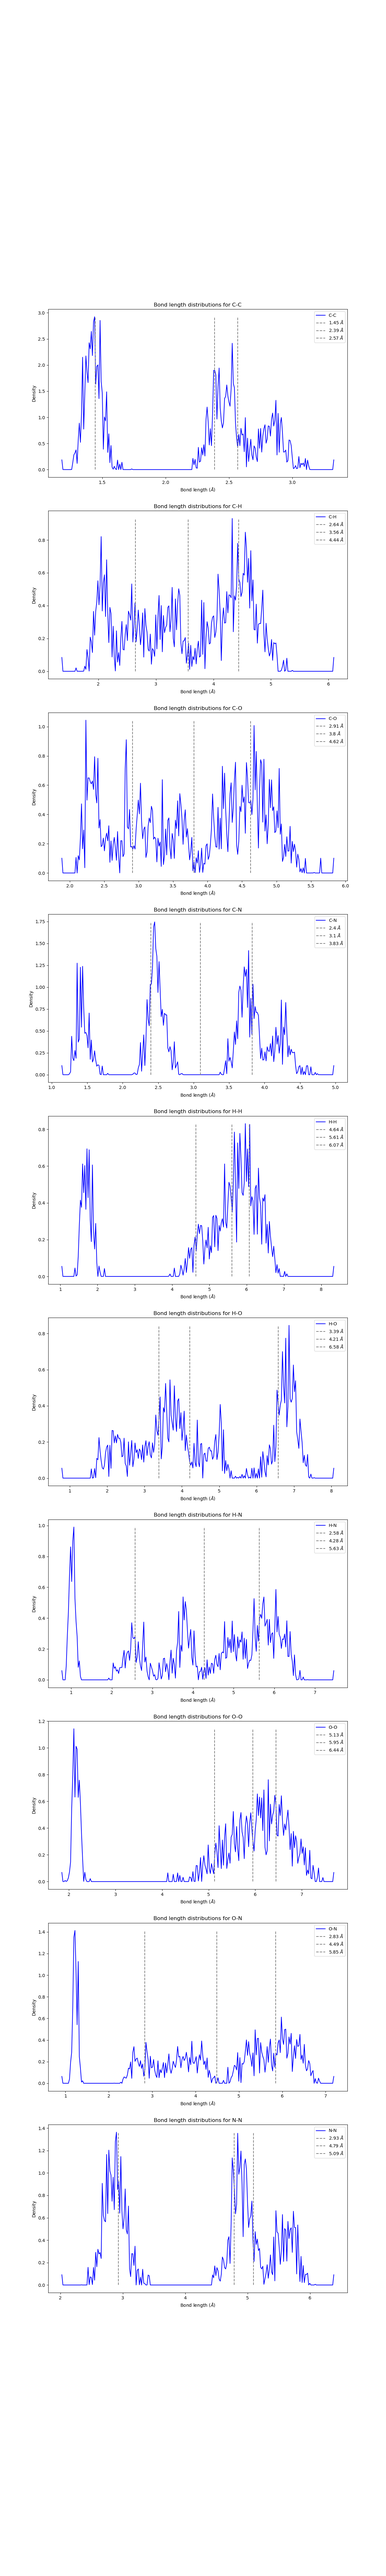
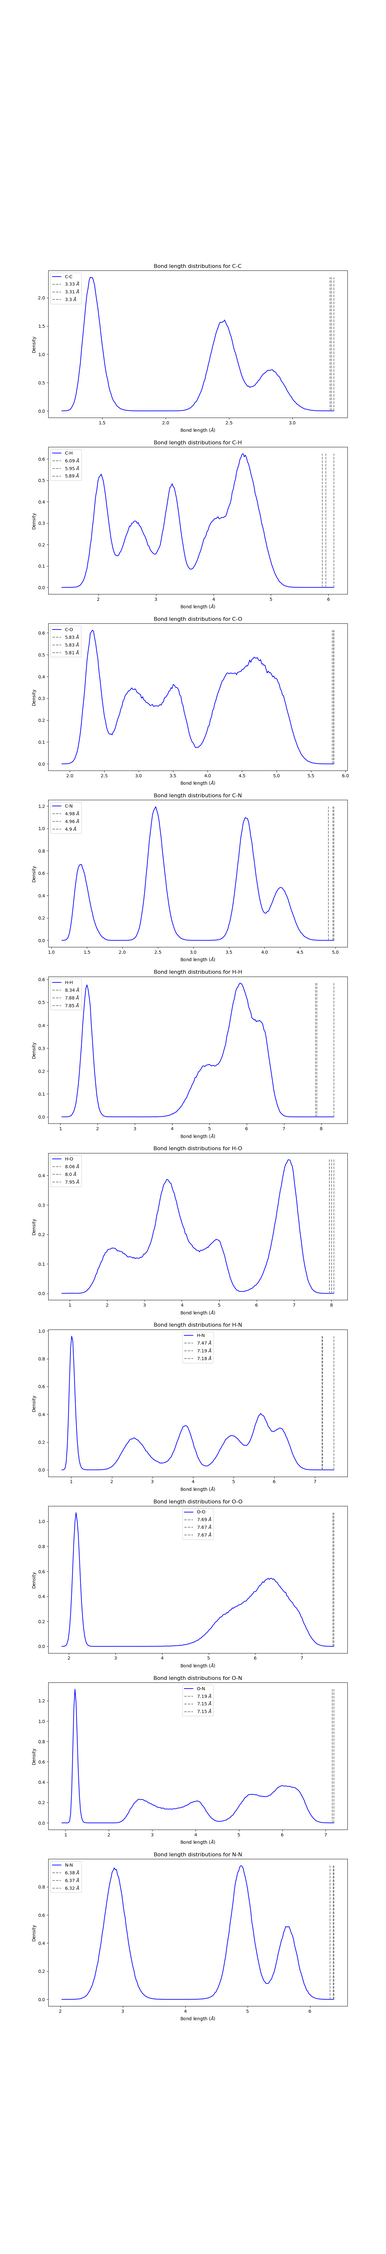
Ran bond length statistics using updated script

diff --git a/WA-1/00-common/bond-length.py b/WA-1/00-common/bond-length.py
@@ -55,22 +55,22 @@ for i in range(4):
 # Plotting function
 def plot_histogram(axis, lengths, elem_i, elem_j):
     samples = np.array(lengths[elem_i][elem_j])
+    if samples.shape[0] > 3300000:
+        np.random.shuffle(samples)
+        samples = samples[0:3300000]
     lower = np.min(samples)
     upper = np.max(samples)
-    width = (upper - lower) / samples.shape[0]
+    width = (upper - lower) / np.sqrt(samples.shape[0])
     scalefactor = -0.5 * np.power(width, -2)
     prefactor = 1.0 / (np.sqrt(2 * np.pi) * width * samples.shape[0])
     x = np.linspace(lower, upper, 250)
     y = prefactor * np.sum(np.exp(scalefactor * np.square(x[:, np.newaxis] - samples[np.newaxis, :])), axis=-1)
     height = np.max(y)
-    iqr0 = int(0.25 * samples.shape[0])
-    iqr1 = int(0.5 * samples.shape[0])
-    iqr2 = int(0.75 * samples.shape[0])
-    iqr0, iqr1, iqr2 = np.partition(samples, [iqr0, iqr1, iqr2])[[iqr0, iqr1, iqr2]]
+    peaks = np.argpartition(samples, [-1, -2, -3])[[-1, -2, -3]]
     axis.plot(x, y, 'b-', label=f'{elem_i}-{elem_j}')
-    axis.plot([iqr0, iqr0], [0, height], '--', color='gray', label=f'{round(iqr0, 2)} ' + r'$\AA$')
-    axis.plot([iqr1, iqr1], [0, height], '--', color='gray', label=f'{round(iqr1, 2)} ' + r'$\AA$')
-    axis.plot([iqr2, iqr2], [0, height], '--', color='gray', label=f'{round(iqr2, 2)} ' + r'$\AA$')
+    for i in range(3):
+        peak = samples[peaks[i]]
+        axis.plot([peak, peak], [0, height], '--', color='gray', label=f'{round(peak, 2)} ' + r'$\AA$')
     axis.set_title(f'Bond length distributions for {elem_i}-{elem_j}')
     axis.set_xlabel(r'Bond length ($\AA$)')
     axis.set_ylabel('Density')
@@ -78,7 +78,7 @@ def plot_histogram(axis, lengths, elem_i, elem_j):
 
 # Generate plot
 fig, axes = plt.subplots(10, 1)
-fig.set_size_inches(12, 80)
+fig.set_size_inches(12, 70)
 counter = 0
 for i in range(4):
     for j in range(i, 4):
